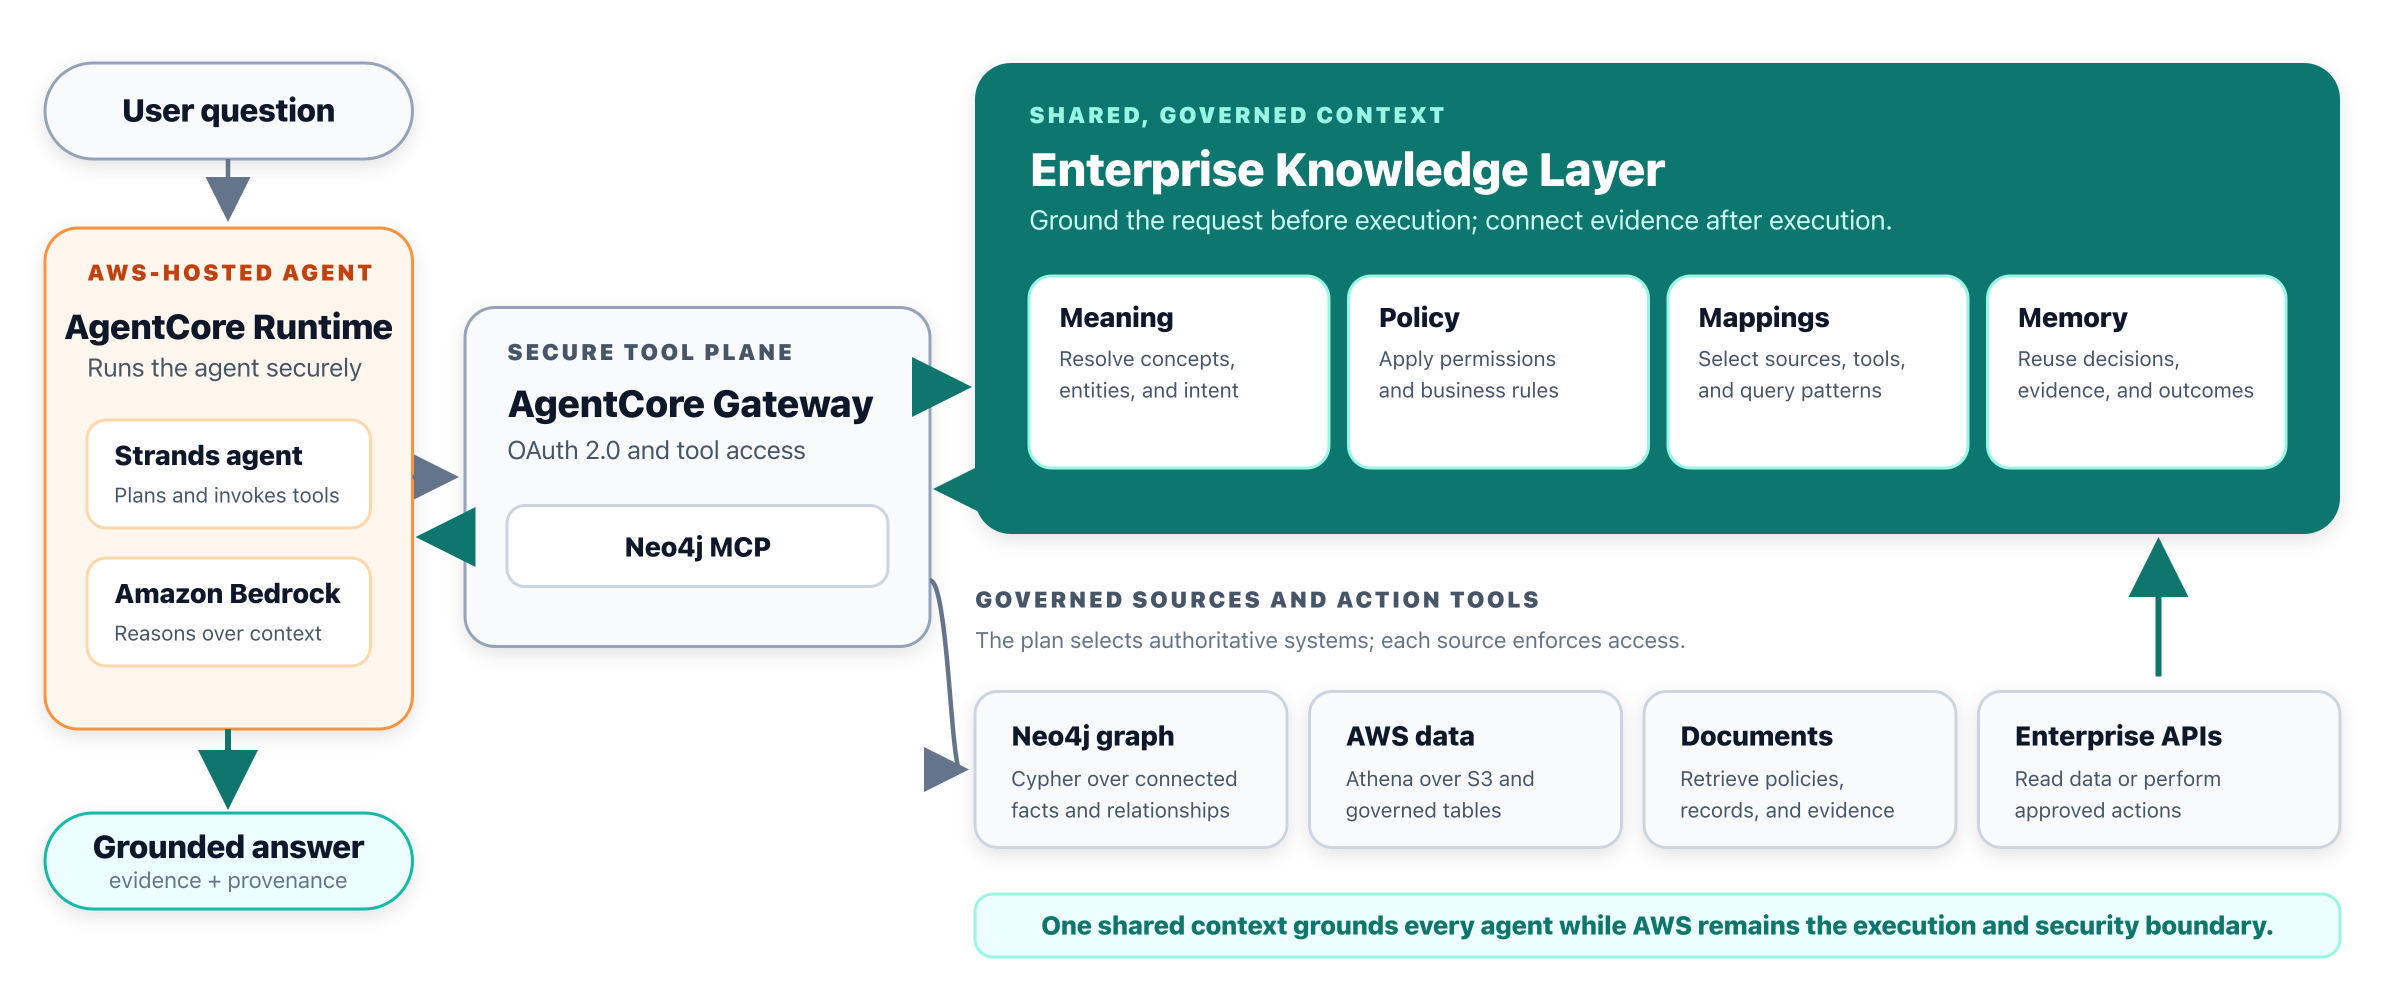
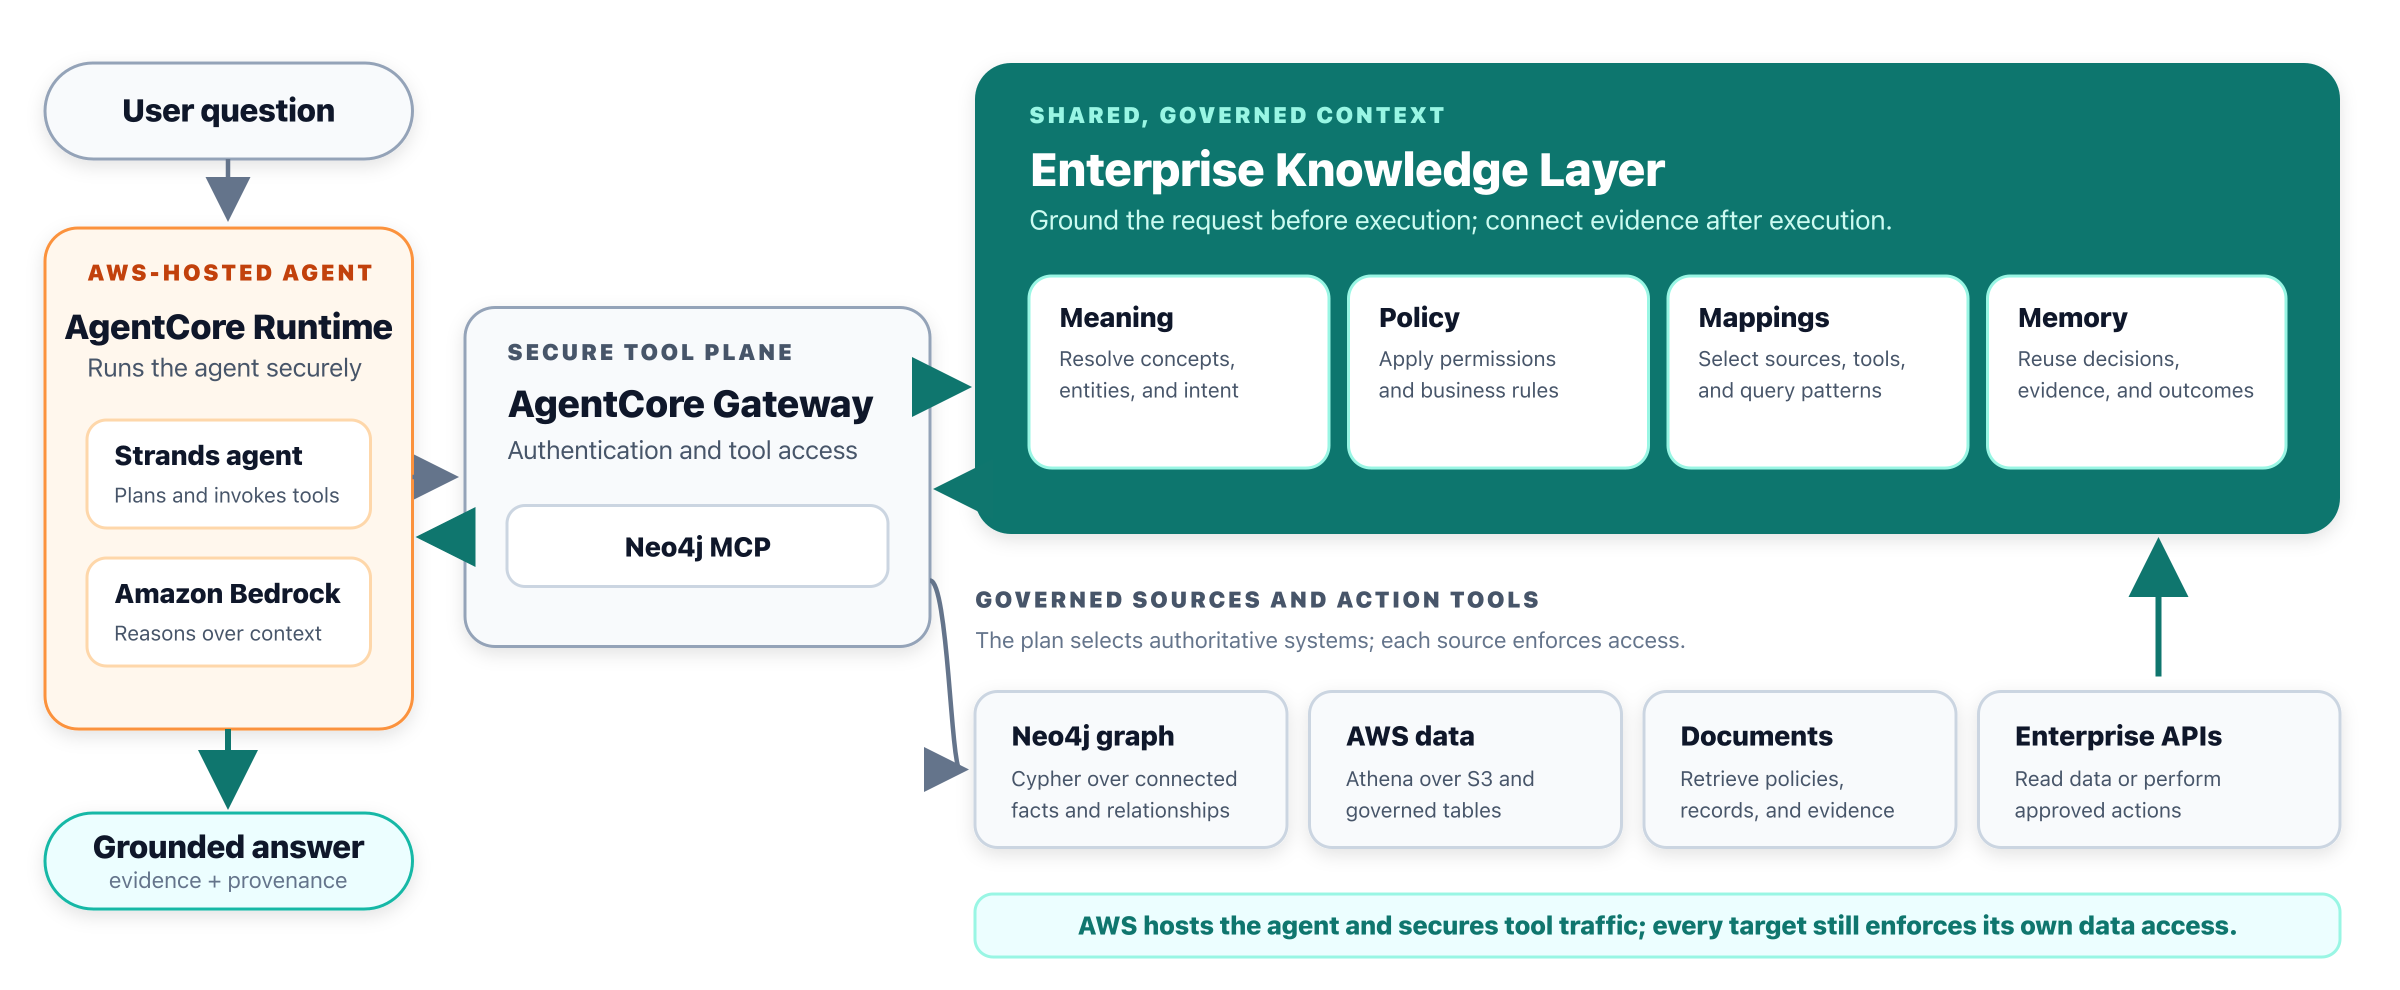
slides

Changed region(s): [[0.4375, 0.9091, 0.9375, 0.9697], [0.2188, 0.4242, 0.3438, 0.4848]]

diff --git a/docs/slides/current/aws-neo4j-grounded-enterprise-ai.md b/docs/slides/current/aws-neo4j-grounded-enterprise-ai.md
@@ -199,7 +199,7 @@ li {
 | **Neo4j Connector for AWS Glue** | AWS Glue | Load data from AWS sources into Neo4j with managed ETL jobs. |
 | **Neo4j Connector for Kafka** | Amazon MSK | Stream events into Neo4j and publish graph changes to Kafka. |
 | **Neo4j drivers** | Lambda, ECS, EKS, EC2 | Connect new or existing AWS applications to Neo4j. |
-| **Neo4j MCP tools** | AgentCore and Strands | Connect AWS-hosted agents to Neo4j graph retrieval tools. |
+| **Neo4j MCP tools** | Amazon Bedrock AgentCore and Strands Agents | Connect AWS-hosted agents to Neo4j graph retrieval tools. |
 
 <small>Sources: [Neo4j Spark Connector](https://neo4j.com/docs/spark/current/), [Kafka Connector](https://neo4j.com/docs/kafka/current/), [connectors and drivers](https://neo4j.com/docs/connectors/), and [Neo4j MCP](https://neo4j.com/developer/genai-ecosystem/model-context-protocol-mcp/)</small>
 
@@ -247,7 +247,7 @@ RETURN m.title
 </div>
 </div>
 
-<div class="callout"><strong>Model first:</strong> Glue expects queryable metadata. Define labels, relationship types, and properties; load nodes before relationships. Only supported SQL constructs are translated.</div>
+<div class="callout"><strong>Model first:</strong> Glue expects queryable metadata. Create a blueprint graph with the labels, relationship types, and properties; load nodes before relationships. Only supported SQL constructs are translated.</div>
 
 <small>Sources: [Neo4j Connector for AWS Glue](https://neo4j.com/docs/neo4j-aws-glue/), [Getting Started](https://neo4j.com/docs/neo4j-aws-glue/getting-started/), [JDBC SQL-to-Cypher translation](https://neo4j.com/docs/jdbc-manual/current/sql2cypher/), and [connector announcement](https://neo4j.com/blog/developer/neo4j-connector-for-aws-glue/)</small>
 
@@ -644,8 +644,8 @@ translates Cypher to SQL
       ↓ SQL
 Amazon Athena
       ├── uses → AWS Glue Data Catalog
-      │          registered S3 table
-      │          bucket catalog
+      │          s3tablescatalog parent
+      │          + table-bucket child catalog
       └── reads → Amazon S3 Tables
                  Apache Iceberg data
       ↓
@@ -658,7 +658,8 @@ Cypher result
 ### AWS service roles
 
 - **Query engine:** Amazon Athena executes the generated SQL.
-- **Catalog:** AWS Glue Data Catalog exposes the registered S3 Tables catalog to Athena.
+- **Catalog:** AWS Glue Data Catalog exposes each S3 table bucket as a child federated catalog under `s3tablescatalog`.
+- **Access:** IAM or AWS Lake Formation permissions govern the catalog and table resources Athena can query.
 - **Storage:** Amazon S3 Tables remains the authoritative data store.
 
 </div>
@@ -668,7 +669,7 @@ Cypher result
 
 <small><span class="status-preview">Public preview:</span> Snowflake, Databricks, and Google BigQuery. <span class="status-roadmap">Planned for AWS:</span> Athena, AWS Glue Data Catalog, and Amazon S3 Tables.</small>
 
-<!-- Source: https://neo4j.com/blog/auradb/neo4j-virtual-graph-is-now-in-public-preview/ -->
+<!-- Sources: https://neo4j.com/blog/auradb/neo4j-virtual-graph-is-now-in-public-preview/, https://docs.aws.amazon.com/athena/latest/ug/gdc-register-s3-table-bucket-cat.html, and https://docs.aws.amazon.com/glue/latest/dg/enable-s3-tables-catalog-integration.html -->
 
 ---
 
@@ -676,7 +677,7 @@ Cypher result
 
 | Workload | Recommended path | Execution |
 | --- | --- | --- |
-| **Query current S3 Tables data without copying it**<br><span class="status-roadmap">Planned</span> | Cypher through Virtual Graph | Athena queries S3 Tables through the catalog registered in AWS Glue Data Catalog. |
+| **Query current S3 Tables data without copying it**<br><span class="status-roadmap">Planned</span> | Cypher through Virtual Graph | Athena queries the table-bucket child catalog mounted in AWS Glue Data Catalog. |
 | **Run frequent, low-latency traversals or graph algorithms** | Materialize selected data in Neo4j | Neo4j executes Cypher against the persisted graph. |
 
 ---
@@ -704,7 +705,9 @@ Cypher result
 
 ![w:1160](./aws-hosted-agent-knowledge-layer-workflow.svg)
 
-<div class="callout"><strong>Security boundary:</strong> AgentCore Gateway manages tool access and OAuth 2.0. Each source service enforces data access.</div>
+<div class="callout"><strong>Security boundary:</strong> AgentCore Gateway controls agentic traffic and supports inbound and outbound authentication, including OAuth 2.0. Each target service still enforces data access.</div>
+
+<!-- Sources: https://docs.aws.amazon.com/bedrock-agentcore/latest/devguide/gateway.html and https://docs.aws.amazon.com/bedrock-agentcore/latest/devguide/gateway-target-MCPservers.html -->
 
 ---
 

diff --git a/docs/slides/current/neocarta-slides.md b/docs/slides/current/neocarta-slides.md
@@ -354,7 +354,7 @@ composes, a governed tool executes.
 | **Serve** | Expose AWS metadata through the same CLI and MCP retrieval tools used across platforms |
 | **Validate** | Prove semantic discovery through governed Athena queries over S3 Tables |
 
-<div class="callout"><strong>Same pattern, new source:</strong> Make Glue a first-class Neocarta source while Glue remains authoritative and Athena remains the query engine. <span class="status-roadmap">Planned:</span> Glue Data Catalog connector.</div>
+<div class="callout"><strong>Same pattern, new source:</strong> Read S3 Tables metadata through the Glue federated catalog; keep S3 Tables authoritative and Athena as the query engine. <span class="status-roadmap">Planned:</span> Glue Data Catalog connector.</div>
 
 <!--
 The AWS expansion starts with a Glue Data Catalog connector. That
@@ -369,10 +369,12 @@ Once the metadata is in the shared model, the CLI, MCP tools, glossary
 bridge, and retrieval strategies already used for other platforms can
 serve it to agents.
 
-The boundary stays explicit: Glue remains the authoritative catalog,
-Athena executes the query, S3 Tables holds the data, and Neocarta adds
-the semantic context and cross-source relationships.
+The boundary stays explicit: Glue exposes the federated catalog, Athena
+executes the query, S3 Tables remains authoritative for its tables, and
+Neocarta adds the semantic context and cross-source relationships.
 -->
+
+<!-- AWS sources: https://docs.aws.amazon.com/glue/latest/dg/enable-s3-tables-catalog-integration.html and https://docs.aws.amazon.com/athena/latest/ug/gdc-register-s3-table-bucket-cat.html -->
 
 ---
 
@@ -444,7 +446,7 @@ differences of scope, not of what the two projects set out to do.
 | | Rosetta SDL | Neocarta |
 | --- | --- | --- |
 | **Product shape** | Complete application: API, admin UI, deployment | Library, CLI, graph model, MCP server |
-| **Platform scope** | AWS: Glue, Athena, S3 Vectors, Bedrock | Eleven connectors across clouds and open formats |
+| **Platform scope** | AWS: AWS Glue, Amazon Athena, S3 Vectors, Amazon Bedrock | Eleven connectors across clouds and open formats |
 | **Query execution** | Plans, validates, and runs Athena queries | Supplies context, relies on a separate tool |
 | **Safety controls** | sqlglot SQL firewall, fail-closed | Not the execution firewall |
 

diff --git a/docs/slides/current/fraud-data-architecture.md b/docs/slides/current/fraud-data-architecture.md
@@ -232,7 +232,7 @@ Account ACC-1001 ⇄ Account ACC-2047
 - **Time-series trends:** SQL produces hourly, daily, and monthly rollups by account, merchant, or channel.
 - **Filtering and ranking:** SQL finds transactions above P95 and accounts generating the most alerts.
 - **Key-based joins:** Fixed joins connect transactions to accounts, customers, and merchants.
-- **Dashboards:** Amazon QuickSight presents volume, alerts, exposure, losses, and case throughput.
+- **Dashboards:** Amazon Quick Sight presents volume, alerts, exposure, losses, and case throughput.
 
 </div>
 <div>
@@ -248,6 +248,8 @@ Account ACC-1001 ⇄ Account ACC-2047
 </div>
 </div>
 
+<!-- Sources: https://docs.aws.amazon.com/athena/latest/ug/functions.html and https://docs.aws.amazon.com/quick/latest/userguide/what-is.html -->
+
 ---
 
 <!-- _class: data-sources-overview -->
@@ -257,6 +259,8 @@ Account ACC-1001 ⇄ Account ACC-2047
 ![w:940](./dual-data-architecture-aws.svg)
 
 <div class="callout"><strong>Two query paths:</strong> Athena queries transaction evidence in S3 Tables; Cypher traverses connected context in Neo4j.</div>
+
+<!-- Sources: https://docs.aws.amazon.com/AmazonS3/latest/userguide/s3-tables.html and https://docs.aws.amazon.com/athena/latest/ug/gdc-register-s3-table-bucket-cat.html -->
 
 ---
 
